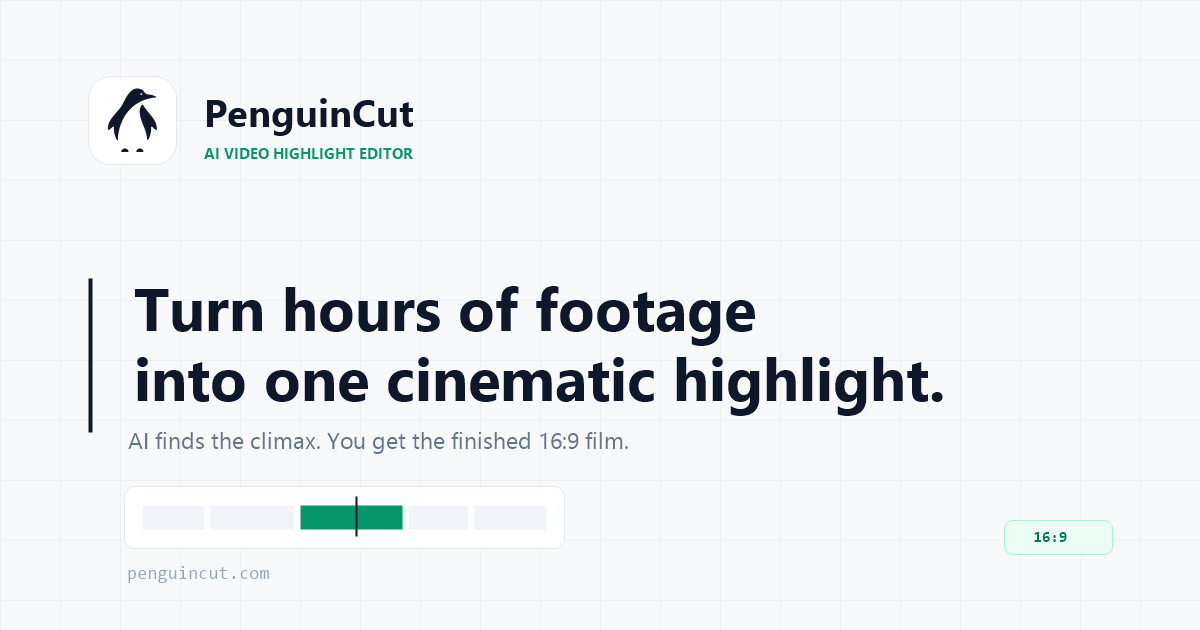
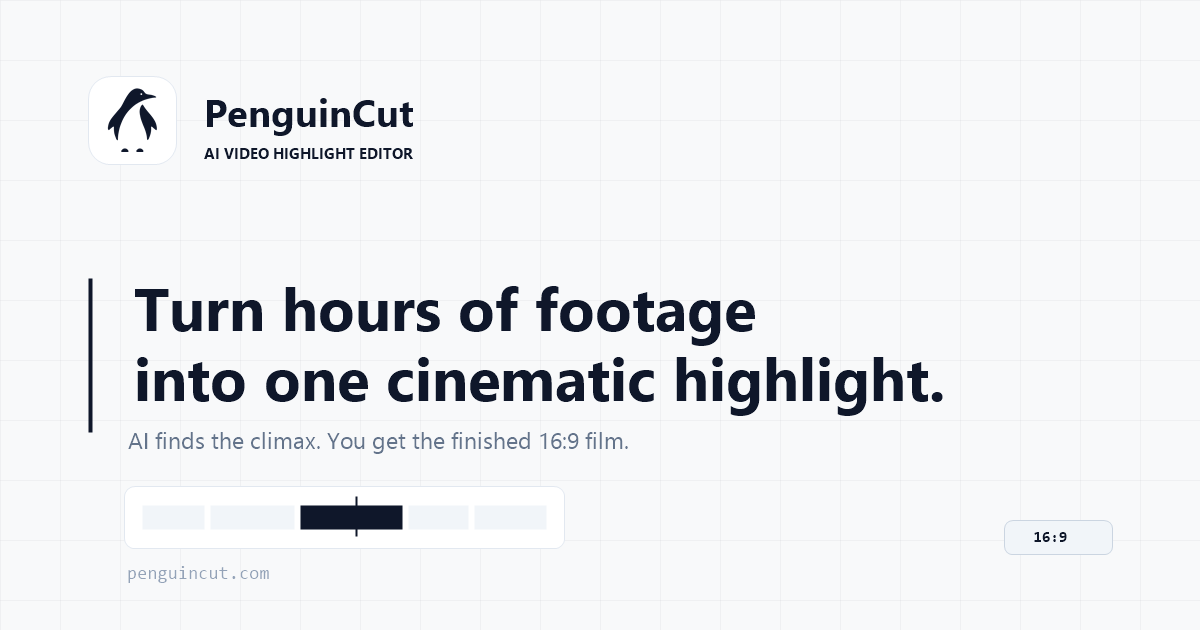
fix(video): 랜딩 포인트 컬러를 그린에서 앱 브랜드 블랙(#0f172a)으로 통일 - 랜딩·OG 이미지의 emerald 포인트를 앱의 ink 톤으로 교체(히어로 강조 문구는 마커 하이라이트 처리), 7개 언어 페이지를 npm run seo로 재생성

Changed region(s): [[0.185, 0.2111, 0.3392, 0.2714], [0.2467, 0.7841, 0.3392, 0.8444], [0.8633, 0.8444, 0.8942, 0.8746]]

diff --git a/reportist-video/public/landing.css b/reportist-video/public/landing.css
@@ -14,10 +14,10 @@
   --border-strong: #cbd5e1;
   --ink: #0f172a;
   --ink-hover: #1e293b;
-  --accent: #059669;
-  --accent-strong: #047857;
-  --accent-soft: #ecfdf5;
-  --accent-line: #a7f3d0;
+  --accent: #0f172a;
+  --accent-strong: #0f172a;
+  --accent-soft: #f1f5f9;
+  --accent-line: #cbd5e1;
   --radius: 16px;
   --radius-button: 10px;
   --container: 1180px;
@@ -141,7 +141,8 @@ button {
 }
 
 .accent {
-  color: var(--accent);
+  color: var(--ink);
+  background-image: linear-gradient(transparent 62%, var(--accent-line) 62%, var(--accent-line) 94%, transparent 94%);
 }
 
 .section {
@@ -517,7 +518,7 @@ button {
   right: 0;
   width: 260px;
   height: 260px;
-  background: rgba(5, 150, 105, 0.1);
+  background: rgba(15, 23, 42, 0.08);
   animation: orbFloat 9s ease-in-out infinite;
 }
 
@@ -642,7 +643,7 @@ button {
   border-radius: 11px;
   border: 1px solid rgba(15, 23, 42, 0.35);
   background:
-    radial-gradient(120% 100% at 18% 0%, rgba(5, 150, 105, 0.28), transparent 54%),
+    radial-gradient(120% 100% at 18% 0%, rgba(226, 232, 240, 0.22), transparent 54%),
     radial-gradient(90% 90% at 82% 100%, rgba(49, 130, 246, 0.22), transparent 56%),
     linear-gradient(140deg, #1c2530 0%, #0d1320 58%, #17202b 100%);
 }
@@ -673,7 +674,7 @@ button {
   width: 68%;
   height: 80%;
   border-radius: 50%;
-  background: rgba(5, 150, 105, 0.28);
+  background: rgba(226, 232, 240, 0.14);
   filter: blur(30px);
 }
 
@@ -722,7 +723,7 @@ button {
   border: 1px solid rgba(255, 255, 255, 0.16);
   border-radius: 6px;
   background: rgba(13, 19, 32, 0.62);
-  color: #6ee7b7;
+  color: #e2e8f0;
   font-family: var(--mono);
   font-size: 0.52rem;
   letter-spacing: 0.02em;
@@ -773,7 +774,7 @@ button {
   width: 68%;
   height: 100%;
   border-radius: inherit;
-  background: linear-gradient(90deg, var(--accent), #34d399);
+  background: linear-gradient(90deg, #0f172a, #475569);
 }
 
 .side-block-accent {
@@ -865,8 +866,8 @@ button {
 .tl-clip-hot {
   position: relative;
   overflow: hidden;
-  background: linear-gradient(180deg, #10b981, #059669);
-  box-shadow: 0 0 18px rgba(5, 150, 105, 0.35);
+  background: linear-gradient(180deg, #1e293b, #0f172a);
+  box-shadow: 0 0 18px rgba(15, 23, 42, 0.4);
 }
 
 .tl-clip-hot i {
@@ -958,9 +959,9 @@ button {
   height: 16px;
 }
 
-.float-icon-green {
-  background: var(--accent-soft);
-  color: var(--accent);
+.float-icon-accent {
+  background: var(--ink);
+  color: #ffffff;
 }
 
 /* ---------- Trust strip ---------- */
@@ -1336,12 +1337,12 @@ button {
 
 .cta-panel .eyebrow {
   position: relative;
-  color: #34d399;
+  color: #ffffff;
 }
 
 .cta-panel .eyebrow-dot {
-  background: #34d399;
-  box-shadow: 0 0 0 4px rgba(52, 211, 153, 0.15);
+  background: #ffffff;
+  box-shadow: 0 0 0 4px rgba(255, 255, 255, 0.18);
 }
 
 .cta-panel h2 {

diff --git a/reportist-video/index.html b/reportist-video/index.html
@@ -240,7 +240,7 @@
           </div>
 
           <div class="float-card float-card-b">
-            <span class="float-icon float-icon-green">
+            <span class="float-icon float-icon-accent">
     <svg viewBox="0 0 24 24" fill="none" stroke="currentColor" stroke-width="2" stroke-linecap="round" stroke-linejoin="round" aria-hidden="true" focusable="false">
       <path d="m5 12 4.2 4.2L19 6.8"/>
     </svg></span>

diff --git a/reportist-video/public/de/index.html b/reportist-video/public/de/index.html
@@ -240,7 +240,7 @@
           </div>
 
           <div class="float-card float-card-b">
-            <span class="float-icon float-icon-green">
+            <span class="float-icon float-icon-accent">
     <svg viewBox="0 0 24 24" fill="none" stroke="currentColor" stroke-width="2" stroke-linecap="round" stroke-linejoin="round" aria-hidden="true" focusable="false">
       <path d="m5 12 4.2 4.2L19 6.8"/>
     </svg></span>

diff --git a/reportist-video/public/es/index.html b/reportist-video/public/es/index.html
@@ -240,7 +240,7 @@
           </div>
 
           <div class="float-card float-card-b">
-            <span class="float-icon float-icon-green">
+            <span class="float-icon float-icon-accent">
     <svg viewBox="0 0 24 24" fill="none" stroke="currentColor" stroke-width="2" stroke-linecap="round" stroke-linejoin="round" aria-hidden="true" focusable="false">
       <path d="m5 12 4.2 4.2L19 6.8"/>
     </svg></span>

diff --git a/reportist-video/public/fr/index.html b/reportist-video/public/fr/index.html
@@ -240,7 +240,7 @@
           </div>
 
           <div class="float-card float-card-b">
-            <span class="float-icon float-icon-green">
+            <span class="float-icon float-icon-accent">
     <svg viewBox="0 0 24 24" fill="none" stroke="currentColor" stroke-width="2" stroke-linecap="round" stroke-linejoin="round" aria-hidden="true" focusable="false">
       <path d="m5 12 4.2 4.2L19 6.8"/>
     </svg></span>

diff --git a/reportist-video/public/ja/index.html b/reportist-video/public/ja/index.html
@@ -240,7 +240,7 @@
           </div>
 
           <div class="float-card float-card-b">
-            <span class="float-icon float-icon-green">
+            <span class="float-icon float-icon-accent">
     <svg viewBox="0 0 24 24" fill="none" stroke="currentColor" stroke-width="2" stroke-linecap="round" stroke-linejoin="round" aria-hidden="true" focusable="false">
       <path d="m5 12 4.2 4.2L19 6.8"/>
     </svg></span>

diff --git a/reportist-video/public/ko/index.html b/reportist-video/public/ko/index.html
@@ -240,7 +240,7 @@
           </div>
 
           <div class="float-card float-card-b">
-            <span class="float-icon float-icon-green">
+            <span class="float-icon float-icon-accent">
     <svg viewBox="0 0 24 24" fill="none" stroke="currentColor" stroke-width="2" stroke-linecap="round" stroke-linejoin="round" aria-hidden="true" focusable="false">
       <path d="m5 12 4.2 4.2L19 6.8"/>
     </svg></span>

diff --git a/reportist-video/public/zh/index.html b/reportist-video/public/zh/index.html
@@ -240,7 +240,7 @@
           </div>
 
           <div class="float-card float-card-b">
-            <span class="float-icon float-icon-green">
+            <span class="float-icon float-icon-accent">
     <svg viewBox="0 0 24 24" fill="none" stroke="currentColor" stroke-width="2" stroke-linecap="round" stroke-linejoin="round" aria-hidden="true" focusable="false">
       <path d="m5 12 4.2 4.2L19 6.8"/>
     </svg></span>
